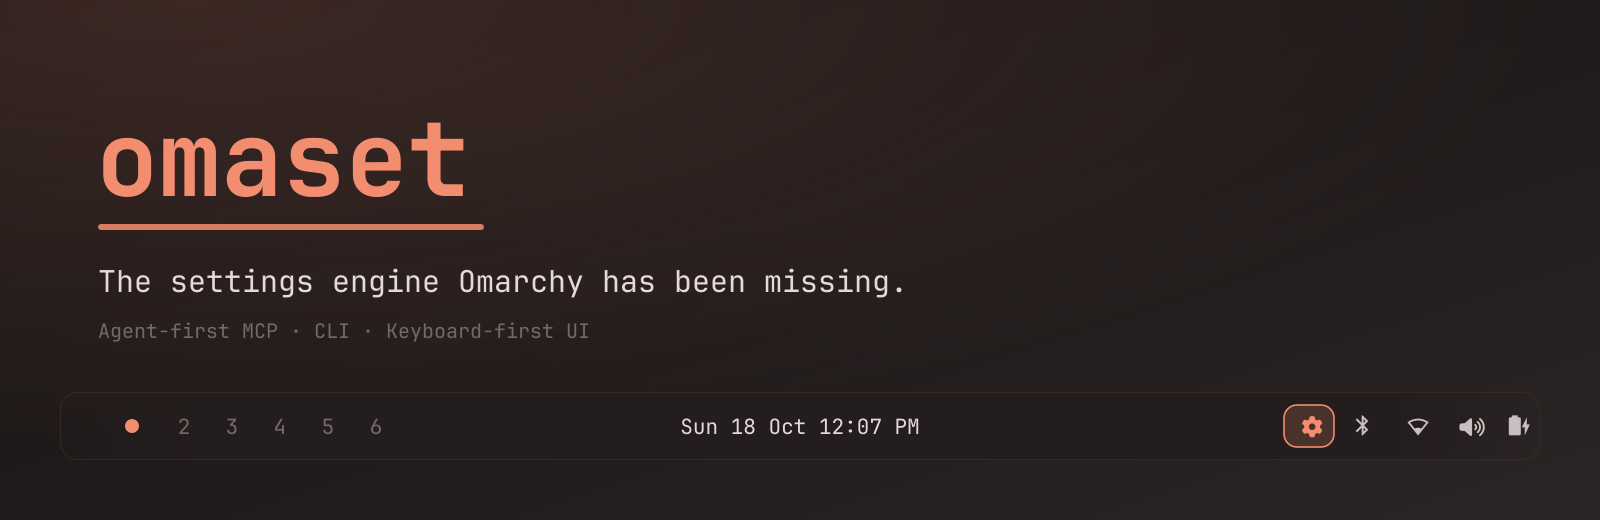
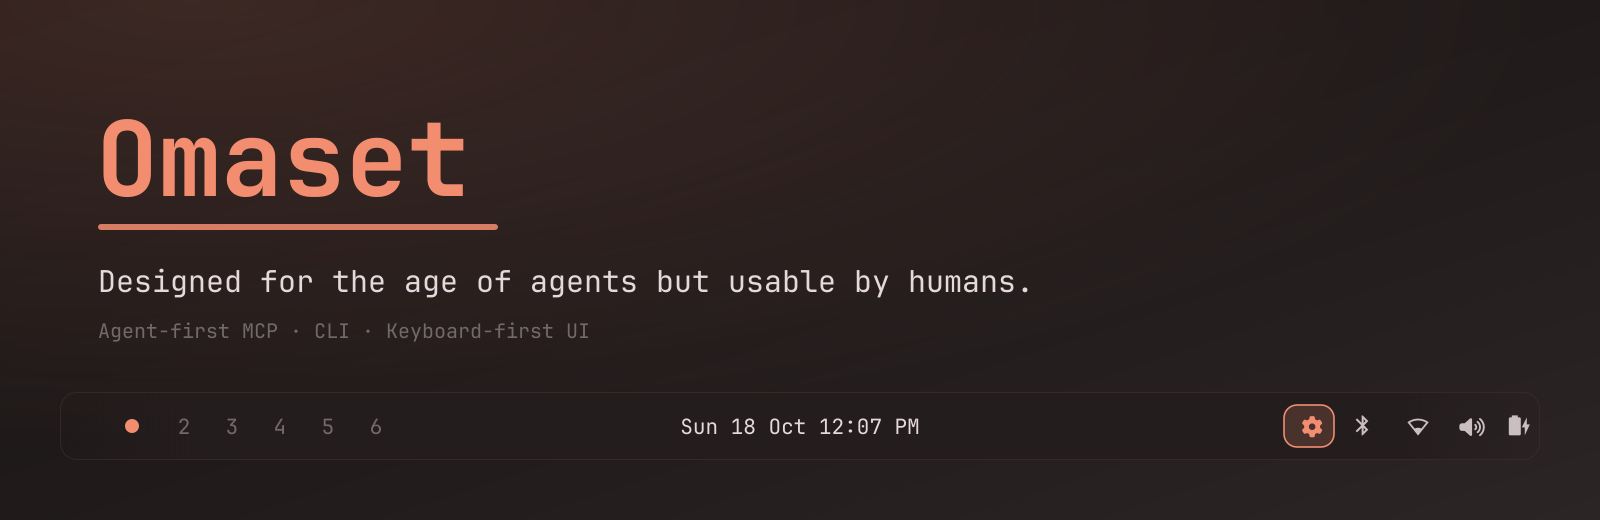
release: 0.2.1 — rebrand to Omaset, refresh docs and the marketplace listing

Changed region(s): [[0.0625, 0.5231, 0.6562, 0.5846], [0.0625, 0.2154, 0.0938, 0.3077], [0.2812, 0.4308, 0.3125, 0.4615]]

diff --git a/README.md b/README.md
@@ -1,6 +1,6 @@
-# omaset
+# Omaset
 
-> **A settings manager for Omarchy, for the age of agents.**
+> **A settings manager for Omarchy. Designed for the age of agents but usable by humans.**
 
 <p align="center">
   <a href="LICENSE"><img src="https://img.shields.io/badge/license-MIT-f38d70?style=flat-square" alt="License: MIT"></a>
@@ -10,18 +10,24 @@
 </p>
 
 <p align="center">
-  <img src="media/banner.png" alt="The omaset wordmark and tagline, above a strip of the Omarchy bar" width="880">
+  <img src="media/banner.png" alt="The Omaset wordmark and tagline, above a strip of the Omarchy bar" width="880">
 </p>
 
-Your config files are the source of truth. omaset puts every setting within reach — of you, and of your agent. Update one value where it lives. Everything else stays as you left it. See what's changed. Take it back.
+Your config files are the source of truth. Omaset puts every setting within reach — of you, and of your agent. Update one value where it lives. Everything else stays as you left it. See what's changed. Take it back.
 
 **Welcome the agents.** Your agent gets the same settings you do, as tools it can call. It searches for a setting by name, reads what it's set to, changes it. Undoes it if you need to. No parsing files, no guessing, no shell incantations — just the same settings, in front of both of you.
 
-**Made for 4.5.** The new desktop is more familiar to people coming from Windows or macOS, used to a settings panel. omaset does the same for settings — a view for humans, while your agent keeps working directly with the files.
+**Made for 4.5.** The new desktop is more familiar to people coming from Windows or macOS, used to a settings panel. Omaset does the same for settings — a view for humans, while your agent keeps working directly with the files.
+
+**Speaks your language.** Every label, description, and option in all 50 Omarchy languages.
 
 **Safe to change.** Every change is checked, logged, and reversible: `changed` shows what's not stock, `history` shows how it got there, `undo` takes it back.
 
-**No magic numbers.** Your file still says `300` — that's seconds to the computer. omaset shows you `5 min` — that's how you think about it. Same for times and every other choice. Made readable for humans, not just machines.
+**No magic numbers.** Your configuration file still says `300` — that's seconds to the computer. Omaset shows you `5 min` — that's how you think about it. Same for times and every other choice. Made readable for humans, not just machines.
+
+<p align="center">
+  <img src="media/window.png" alt="The Omaset settings window" width="800">
+</p>
 
 ## Requirements
 
@@ -38,7 +44,7 @@ Then link the command line and hook up your agent:
 - [The CLI](docs/cli.md) — `ln -s …/bin/omaset ~/.local/bin/omaset`
 - [For agents](docs/agents.md) — `omaset mcp install`
 
-Click the omaset icon in your bar, or run `omaset ui`.
+Click the Omaset icon in your bar, or run `omaset ui`.
 
 ## What it manages
 
@@ -55,7 +61,7 @@ Covers appearance, layout, bar, input, windows, power, display, and behavior. On
 | Display | night light on/off, schedule (start & end), temperature |
 | Behavior | focus, tearing, cursor hiding |
 
-## Why omaset
+## Why Omaset
 
 - **One place to see it all.** Every panel, searchable.
 - **Three ways in, same settings.** Agent, window, command line.
@@ -95,10 +101,10 @@ omaset undo                   # take it back
 ```
 
 <p align="center">
-  <img src="media/usage.png" alt="omaset --help" width="820">
+  <img src="media/usage.png" alt="Omaset --help" width="820">
 </p>
 
-Full command reference — keyed settings, `help`/`options`, and omaset's own preferences — in [docs/cli.md](docs/cli.md).
+Full command reference — keyed settings, `help`/`options`, and Omaset's own preferences — in [docs/cli.md](docs/cli.md).
 
 ## Documentation
 
@@ -113,14 +119,8 @@ Full command reference — keyed settings, `help`/`options`, and omaset's own pr
 | [For agents](docs/agents.md) | the MCP server and a worked example |
 | [Protocol](docs/protocol.md) | the machine-readable contract |
 | [Internationalization](docs/i18n.md) | the catalogs, language resolution, and the per-release checklist |
-| [Tests](docs/tests.md) | how omaset is tested |
+| [Tests](docs/tests.md) | how Omaset is tested |
 | [Settings UI](ui/README.md) | the Quickshell window, install and keys |
-
-Themes are Omarchy themes: the window picks up your active one, so it looks at home in Tokyo Night, Jade Horse, or any theme you install.
-
-<p align="center">
-  <img src="media/themes.png" alt="The same settings window rendered in the Tokyo Night and Jade Horse themes" width="880">
-</p>
 
 ## Remove
 

diff --git a/docs/protocol.md b/docs/protocol.md
@@ -1,6 +1,6 @@
-# omaset protocol
+# Omaset protocol
 
-The machine-readable contract between the omaset engine and its consumers
+The machine-readable contract between the Omaset engine and its consumers
 (the CLI, the keyboard-first UI, or Omarchy's own commands). Every command
 emits valid, deterministic JSON (object keys are sorted).
 
@@ -127,7 +127,7 @@ to that monitor's block.
 { "history": [ { "ts", "op", "id", "key"|"sub", "old", "default", "new", "backend" }, ... ] }
 ```
 
-Every change omaset has made, oldest first. `op` is `"set"` or `"reset"`;
+Every change Omaset has made, oldest first. `op` is `"set"` or `"reset"`;
 `old`/`new` are the effective values before/after (`null` = unset/default);
 `default` is the Omarchy default at the time. `N` limits the output to the most
 recent entries.
@@ -148,8 +148,8 @@ journal in reverse and returns `{ "ok": true, "undone": <count> }`.
 { "rollback": true, "restored": <n> }
 ```
 
-Restores every `<file>.omaset.bak` snapshot, returning each config file omaset
-has written to the state it had before omaset first touched it, and clears the
+Restores every `<file>.omaset.bak` snapshot, returning each config file Omaset
+has written to the state it had before Omaset first touched it, and clears the
 journal. Backends without a snapshot (e.g. the `omarchy` passthrough and
 `workspace-layout`) are no-ops.
 
@@ -164,14 +164,14 @@ The `time_format` preference additionally carries a `resolved` field — the
 `24h`/`12h` convention actually used, resolving the `auto` value against the
 bar clock's format in shell.json.
 
-omaset's **own** UI preferences, stored in `~/.config/omaset/preferences.json`
+Omaset's **own** UI preferences, stored in `~/.config/omaset/preferences.json`
 (`OMASET_PREFERENCES` overrides the path). They are deliberately *not* Omarchy
 settings: they have no backend, they never appear in `schema`/`search`, and
 they are never reported by `changed`.
 
 - `list` (default) — every preference with its current value and default;
   `--json` returns the array under `preferences`, alongside the `version` of
-  the omaset engine.
+  the Omaset engine.
 - `get <key>` — `{ "key", "value" }` (or `--plain` bare value).
 - `set <key> <value>` — validates and persists; `{ "key", "value", "ok" }`.
 - `reset <key>` — removes the override so the default applies.

diff --git a/docs/safety.md b/docs/safety.md
@@ -1,6 +1,6 @@
 # Safety, undo & rollback
 
-omaset's first promise is that it will not wreck your config. It never
+Omaset's first promise is that it will not wreck your config. It never
 parses-and-rewrites your files: it edits the one value being changed — in place
 where it already lives, or appending a minimal override when it does not — and
 keeps a one-time `<file>.omaset.bak` snapshot before its first write to any
@@ -9,7 +9,7 @@ change is validated and automatically reverted on failure.
 
 ## History and undo
 
-- `omaset history` lists every change omaset has made, oldest first, from an
+- `omaset history` lists every change Omaset has made, oldest first, from an
   append-only journal at `~/.local/state/omaset/journal.jsonl`.
 - `omaset undo` undoes the most recent change; `undo --all` replays the journal
   in reverse. Undo restores the recorded previous value, and falls back to
@@ -20,12 +20,12 @@ change is validated and automatically reverted on failure.
 
 - `omaset rollback` is the panic button: it restores every `<file>.omaset.bak`
   snapshot for each file-writing backend, returning each config file to the state
-  it had before omaset first wrote to it. It does not depend on the journal.
+  it had before Omaset first wrote to it. It does not depend on the journal.
 
 ## Reset & changed semantics
 
 `reset` puts a setting back to its Omarchy default — writing the default in
-place where omaset changed it, or dropping the value omaset appended. It does
+place where Omaset changed it, or dropping the value Omaset appended. It does
 not store snapshots: `read_default` recomputes the default from Omarchy's
 shipped config on every call.
 
@@ -38,7 +38,7 @@ shipped config on every call.
   `single-window-square`) declare `default = false` so they participate in
   `changed` too.
 - `hypr-lua` edits the value in place, so `reset` writes the stock default back
-  where the value lives; a hand-written `hl.config(...)` override for a key omaset
+  where the value lives; a hand-written `hl.config(...)` override for a key Omaset
   never touched is left alone. To restore *everything* to stock, use
   `omarchy refresh hyprland`.
 - `workspace-layout` shares storage with `omarchy hyprland workspace layout

diff --git a/ui/README.md b/ui/README.md
@@ -1,6 +1,6 @@
-# omaset settings UI
+# Omaset settings UI
 
-A keyboard-first, schema-driven settings window for omaset, built as an
+A keyboard-first, schema-driven settings window for Omaset, built as an
 Omarchy Quickshell plugin. It renders whatever the schema returns, so adding or
 removing a setting in Lua needs no QML changes. The schema carries a
 `schemaVersion`, and the window only renders a version it supports: a mismatch
@@ -8,7 +8,7 @@ removing a setting in Lua needs no QML changes. The schema carries a
 rather than a partial list of settings.
 
 The window talks to one long-lived `omaset rpc` process over newline-delimited
-JSON-RPC 2.0 (see [the protocol](../docs/protocol.md#rpc-omaset-rpc)). Requests
+JSON-RPC 2.0 (see [the protocol](../docs/protocol.md#rpc-Omaset-rpc)). Requests
 are matched by id, so values can load in parallel without spawning a process
 per setting. A `snapshot` call fetches a panel's schema, preferences, changed
 list, and its keyed/grouped values together.
@@ -66,7 +66,7 @@ The shell rescans the plugins dir on change. `OMASET_BIN` (optional) points the
 panel at a different `omaset` executable; otherwise it runs the engine bundled
 with the plugin at `~/.config/omarchy/plugins/b2amedina.omaset/bin/omaset`.
 
-The window floats because omaset manages a `o.window(... float/center ...)`
+The window floats because Omaset manages a `o.window(... float/center ...)`
 rule for its own window (the `launch_floating` preference); no hand-written
 Hyprland rule is required.
 
@@ -92,7 +92,7 @@ still step by one. A time row works the same way: type `HH:MM` or
 
 The footer shows keyboard hints plus a contextual badge — `N changed` when
 settings differ from Omarchy stock, `N settings found` while searching. The
-Preferences overlay (`p`) shows the omaset engine version as a dimmed caption
+Preferences overlay (`p`) shows the Omaset engine version as a dimmed caption
 pinned at its bottom.
 
 ## Structure
@@ -112,7 +112,7 @@ pinned at its bottom.
   catalogs; the window reads them via `Commons.Translations` and follows
   the desktop language. See [docs/i18n.md](../docs/i18n.md).
 
-## How it maps omaset settings
+## How it maps Omaset settings
 
 | type | control |
 |------|---------|

diff --git a/docs/cli.md b/docs/cli.md
@@ -1,4 +1,4 @@
-# The omaset CLI
+# The Omaset CLI
 
 The CLI, the MCP server, and the settings window are all thin faces over the
 same shared service (`lib/omaset/service.lua`). Link the bundled binary onto
@@ -20,10 +20,10 @@ ln -s ~/.config/omarchy/plugins/b2amedina.omaset/bin/omaset ~/.local/bin/omaset
 | `omaset search <query>` | find a setting by id or label |
 | `omaset help <id>` | one setting's type, options, range, default, value |
 | `omaset keys <id>` | enumerate a keyed/grouped setting's keys |
-| `omaset history` | every change omaset has made, oldest first |
+| `omaset history` | every change Omaset has made, oldest first |
 | `omaset undo` | undo the most recent change (`--all` replays the journal) |
-| `omaset rollback` | restore every config file omaset touched |
-| `omaset preferences` | omaset's own settings (see below) |
+| `omaset rollback` | restore every config file Omaset touched |
+| `omaset preferences` | Omaset's own settings (see below) |
 | `omaset ui-float <on|off>` | float/center the settings window |
 | `omaset hyprsunset-apply` | restart hyprsunset so a schedule takes effect |
 | `omaset mcp` | run the MCP server (see [agents.md](agents.md)) |
@@ -77,14 +77,14 @@ value lists the valid options in the error, so a typo tells you what it wanted.
 
 ## Preferences
 
-omaset has a few settings about *itself*, kept separate from the Omarchy settings
+Omaset has a few settings about *itself*, kept separate from the Omarchy settings
 above. They live in `~/.config/omaset/preferences.json`, are managed with
 `omaset preferences`, and are **not** Omarchy settings: they never appear in the
 settings panels, `search`, or `changed`.
 
 - `refresh_interval_sec` — how often the settings window re-reads values while
   visible (default 2, range 1..60).
-- `launch_floating` — whether the window opens floating (default true). omaset
+- `launch_floating` — whether the window opens floating (default true). Omaset
   manages this by adding/removing an `o.window(... float/center ...)` rule for
   its own window in `~/.config/hypr/hyprland.lua`, so no hand-written rule is
   needed. Takes effect on the next open.

diff --git a/docs/agents.md b/docs/agents.md
@@ -1,6 +1,6 @@
-# omaset for agents
+# Omaset for agents
 
-omaset is a single machine-readable interface to Omarchy's settings. An agent
+Omaset is a single machine-readable interface to Omarchy's settings. An agent
 (or any tool) can list, read, and change settings through one JSON protocol,
 without needing to know which dotfile each setting lives in.
 
@@ -12,7 +12,7 @@ The contract is `docs/protocol.md`; this page is the practical guide.
 
 ## MCP (recommended)
 
-omaset ships an MCP server so an agent can call settings as typed tools instead
+Omaset ships an MCP server so an agent can call settings as typed tools instead
 of parsing CLI output. Enable it once:
 
 ```
@@ -34,12 +34,12 @@ The server is `omaset mcp` (JSON-RPC over stdio) and exposes these tools:
 | `help` | one setting's spec |
 | `keys` | enumerate a keyed/grouped setting's keys (value + default each) |
 | `undo` | undo the last change |
-| `history` | recent changes omaset has made, oldest first |
+| `history` | recent changes Omaset has made, oldest first |
 | `ui` | open/close/toggle/reload the settings window |
 | `open_ui` | summon the settings window for the user |
 | `ui_float` | apply the launch_floating window rule |
 | `hyprsunset_apply` | restart hyprsunset so a night-light schedule takes effect |
-| `preferences` | list omaset's own preferences (type, options, value, default) |
+| `preferences` | list Omaset's own preferences (type, options, value, default) |
 | `preference_get` | read one preference |
 | `preference_set` | write a preference (validated like a setting) |
 | `preference_reset` | reset a preference to its default |
@@ -102,7 +102,7 @@ omaset changed --json
 Full details — in-place edits, validation, `undo`, and `rollback` — are in
 [safety.md](safety.md).
 
-- omaset edits the one value being changed — in place where it already lives,
+- Omaset edits the one value being changed — in place where it already lives,
   appending a minimal override when it does not — so your hand-written config is
   never rewritten.
 - Every Hyprland write is reloaded and checked with `hyprctl configerrors`; on

diff --git a/docs/i18n.md b/docs/i18n.md
@@ -1,6 +1,6 @@
 # Internationalization (i18n)
 
-omaset speaks the desktop language. The window, the human CLI, and the
+Omaset speaks the desktop language. The window, the human CLI, and the
 engine's status messages resolve through one shared catalog set in `i18n/`
 at the plugin root — the same directory Lua and QML read, so every frontend
 agrees.
@@ -53,7 +53,7 @@ a skeleton catalog is therefore safe.
 ## Language resolution
 
 The language is read from Omarchy's own source of truth, never persisted
-by omaset. Precedence (first valid wins):
+by Omaset. Precedence (first valid wins):
 
 1. `--lang <code>` on the CLI (`omaset --lang fr list`, `--lang=fr`)
 2. `OMASET_LANGUAGE` env
@@ -62,7 +62,7 @@ by omaset. Precedence (first valid wins):
 4. `en`
 
 `omaset --lang list` prints the registry (`native name ⇥ code ⇥ English
-name`). `omaset --lang <code>` with no command prints the resolved code.
+name`). `Omaset --lang <code>` with no command prints the resolved code.
 
 The settings window follows the desktop language by default. For a
 one-off preview (e.g. testing translations) `omaset ui --lang <code>`
@@ -76,7 +76,7 @@ always starts on the desktop language again.
 
 The locale registry itself is Omarchy's
 `$OMARCHY_PATH/default/i18n/locales.json` (`formatLocale`, `decimal`,
-`zeroDigit`, `direction`). omaset never duplicates it. Number formatting
+`zeroDigit`, `direction`). Omaset never duplicates it. Number formatting
 (decimal separator, digit shape — e.g. Bengali digits) and plural rules
 mirror Omarchy's `plural.jq`/`Plural.js` exactly; `tests/test_i18n.sh`
 keeps the Lua port in agreement.

diff --git a/CHANGELOG.md b/CHANGELOG.md
@@ -1,13 +1,13 @@
 # Changelog
 
-## Unreleased
+## 0.2.1 — 2026-11-09
 
-- Full Omarchy language support (all 50 registry codes) — shared `i18n/`
-  catalogs, engine-side `lib/omaset/i18n.lua` (`t`/`tn`/`formatNumber`,
-  plural rules), `--lang <code>`/`OMASET_LANGUAGE` override (JSON and MCP
-  stay English), window localization of plain-string enum labels, counts,
-  and preferences, RTL mirroring for ar/fa/he/ur, locale AM/PM markers,
-  `scripts/i18n-extract`, `tests/test_i18n.sh`, and `docs/i18n.md`.
+- Speaks all 50 Omarchy languages — every label, description, and option.
+- A `--lang <code>` / `OMASET_LANGUAGE` override; JSON and MCP output stay English.
+- Right-to-left mirroring for Arabic, Persian, Hebrew, and Urdu.
+- The settings view scrolls when you wheel over a slider.
+- New `scripts/i18n-extract` extractor and `tests/test_i18n.sh` validation.
+- Localization guide and per-release checklist in `docs/i18n.md`.
 
 ## 0.2.0 — 2026-11-08
 

diff --git a/docs/backends.md b/docs/backends.md
@@ -1,6 +1,6 @@
 # Backends
 
-A backend is the only part of omaset that knows a config format. It exposes a
+A backend is the only part of Omaset that knows a config format. It exposes a
 small read/write/validate interface for one area, and the engine treats them all
 identically. They self-register from `lib/omaset/backends/`, so a settings file
 can point at any of them — or at a new one — without the core changing.
@@ -12,7 +12,7 @@ appends a minimal override when it does not. Details in [safety.md](safety.md).
 
 ## Migrating from 0.1.0
 
-0.1.0 wrote omaset's changes into `-- omaset:begin` / `-- omaset:end` blocks
+0.1.0 wrote Omaset's changes into `-- omaset:begin` / `-- omaset:end` blocks
 (`# -- omaset:begin` / `# -- omaset:end` in `hyprsunset.conf`). 0.2.0 edits
 values in place instead. Existing blocks keep working — reads evaluate the whole
 file, so the values inside them are still read and edited in place — but the

diff --git a/docs/how-it-works.md b/docs/how-it-works.md
@@ -1,6 +1,6 @@
-# How omaset works
+# How Omaset works
 
-Your config files are the source of truth. omaset is a small core plus a set of
+Your config files are the source of truth. Omaset is a small core plus a set of
 pluggable **backends**. The core owns one idea — a settings *schema* — and each
 backend knows how to read and write one kind of file. Everything a person or an
 agent touches — the MCP server, the settings window, the CLI — is a face on top

diff --git a/docs/extending.md b/docs/extending.md
@@ -1,4 +1,4 @@
-# Extending omaset with Lua
+# Extending Omaset with Lua
 
 Settings are data, not code in the engine. Adding one is dropping a Lua file;
 the engine, the CLI, the window, and the MCP server all pick it up with no
